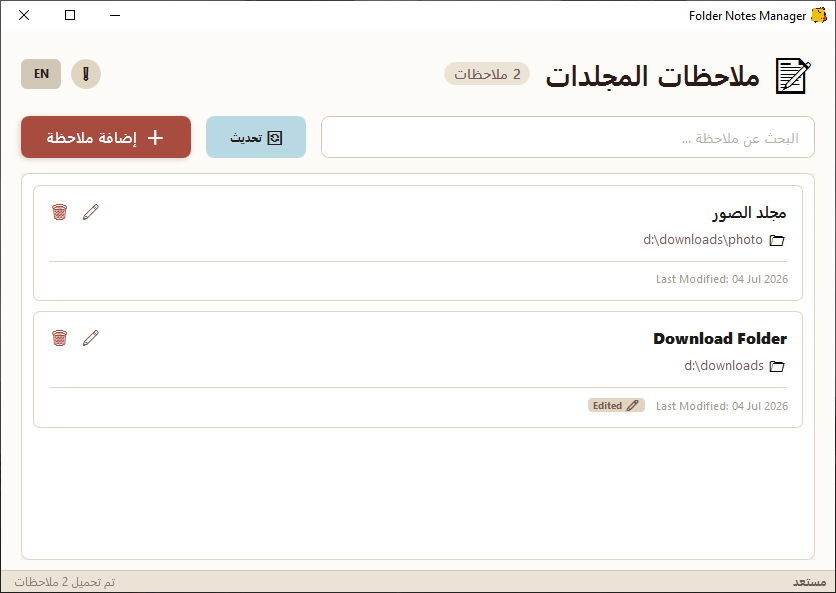
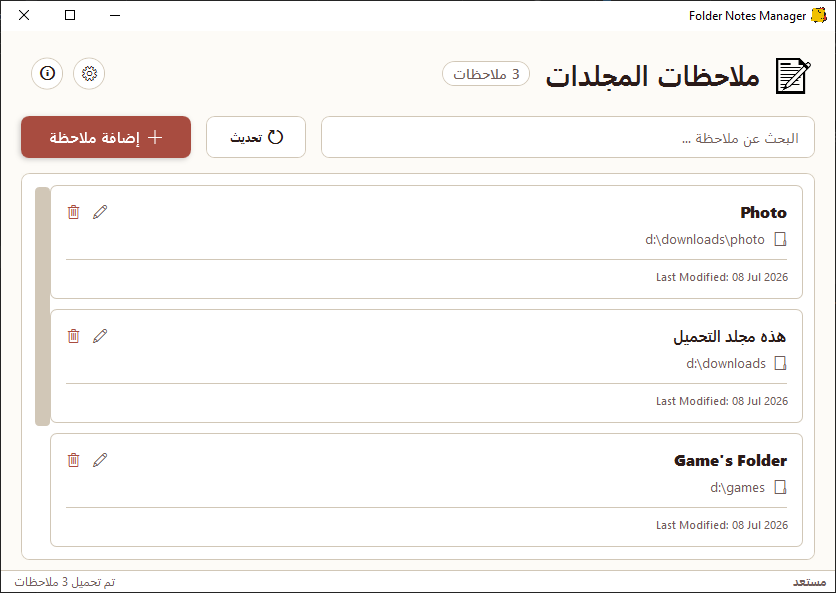
add a link to Inno Setup Script that used to build up app installer, find it in README file

diff --git a/README.md b/README.md
@@ -60,6 +60,18 @@ The application runs quietly in the background from the **System Tray**, require
 
 ---
 
+## Inno Setup script
+
+If you want to take a look at the Folder Notifier Setup Script, here is the Repo for Inno Setup Scripts:
+
+```bash
+https://github.com/AliAl-ojeely/InnoSetup-Game-Installer-Template/tree/main
+```
+
+You will find it under the FolderNotifier.iss name file
+
+---
+
 ## Installation
 
 ### Download Release
